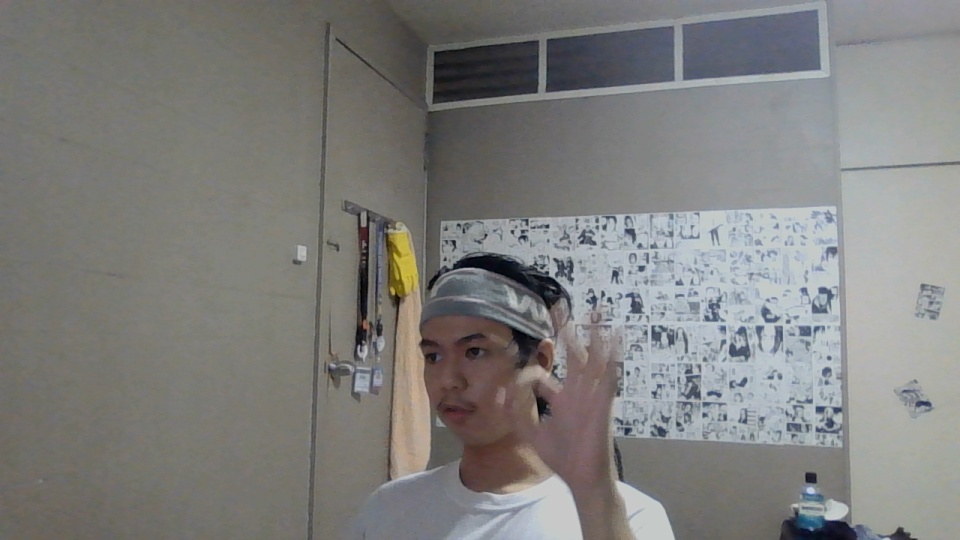
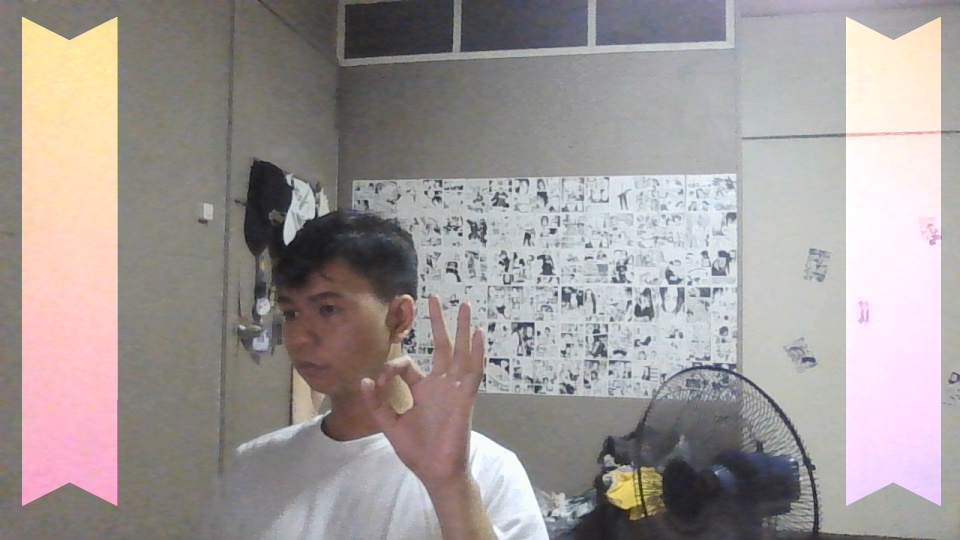
an update

diff --git a/main.py b/main.py
@@ -131,10 +131,11 @@ def main():
         image.flags.writeable = False
         results = hands.process(image)
         image.flags.writeable = True
-        overlay_image_resized = cv.resize(overlay_image, (image.shape[1], image.shape[0]))
+        image2 = cv.cvtColor(image, cv.COLOR_BGR2RGB)
+        overlay_image_resized = cv.resize(overlay_image, (image2.shape[1], image2.shape[0]))
     
     # Combine the frame and the overlay image
-        combined_frame = cv.addWeighted(image, 1, overlay_image_resized, 0.5, 0)
+        combined_frame = cv.addWeighted(image2, 1, overlay_image_resized, 0.5, 0)
     
         #  ####################################################################
         if results.multi_hand_landmarks is not None:
@@ -187,7 +188,7 @@ def main():
                 )
                 hand_gesture = keypoint_classifier(pre_processed_landmark_list)
                 point_gesture_id = point_history_classifier(pre_processed_point_history_list)
-                # print(hand_gesture)
+                print(hand_gesture)
                 print(hand_sign_id)
                 if hand_gesture == 2:  # Point up
                     perform_action("thumbs_up")  # Volume Up
@@ -197,7 +198,13 @@ def main():
                     perform_action("GDSC")  # CLose Program
                 elif hand_gesture == 3:  # DevCOn OK   
                     time.sleep(2)
+
                     newIMg = cv.cvtColor(image, cv.COLOR_BGR2RGB)
+                    overlay_image_resizeds = cv.resize(overlay_image, (newIMg.shape[1], newIMg.shape[0]))
+    
+    # Combine the frame and the overlay image
+                    combined_framed = cv.addWeighted(newIMg, 1, overlay_image_resizeds, 0.5, 0)
+                    
                     cv.imshow("Captured Image", newIMg)
                     cv.waitKey(2000)
                     time.sleep(3)
@@ -205,7 +212,7 @@ def main():
 
                     image_filename = os.path.join(images_folder_path, f"captured_image_{image_counter}.jpg")
 
-                    cv.imwrite(image_filename, newIMg)
+                    cv.imwrite(image_filename, combined_framed)
                     # Increment the image counter
                     image_counter += 1
 
